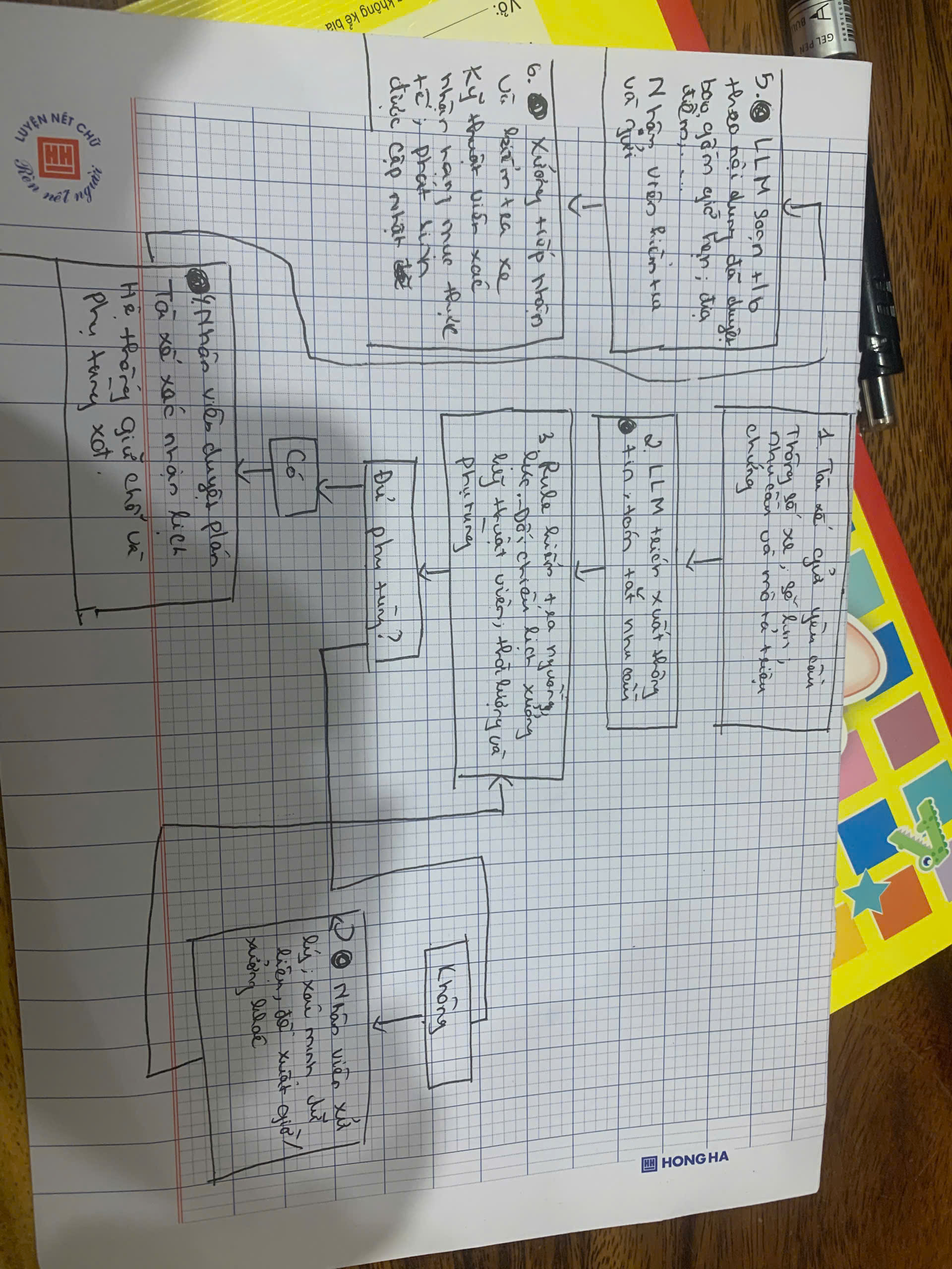
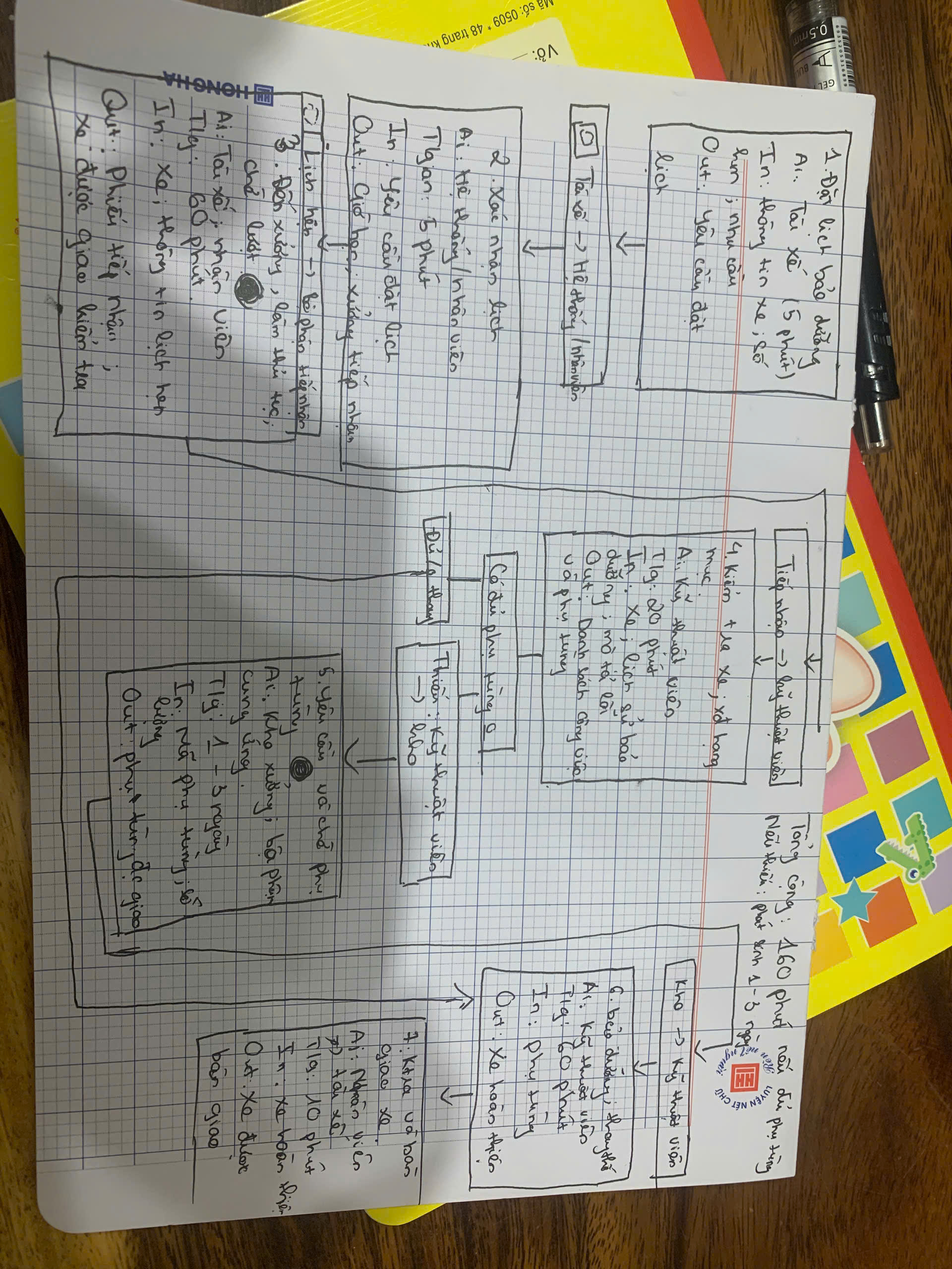
Update cau truc file

diff --git a/01-problem-scan.md b/01-problem-scan.md
@@ -1,0 +1,135 @@
+# Lab 02 — Quét bài toán và đánh giá nhanh
+
+## Phase 1 — SCAN: Tìm kiếm bài toán
+| # | Subsidiary (VinFast/Xanh SM...) | Lens | Mô tả ngắn bài toán |
+|---|----------------------------------|------|---------------------|
+| 1 | **Vinmec** | AI-upgrade | Khách hàng phải hỏi nhiều lượt để biết thủ tục khám, giấy tờ cần mang và cách đặt lịch. Trợ lý AI có thể trả lời theo hướng dẫn được bệnh viện phê duyệt, hỏi rõ nhu cầu và chuyển nhân viên khi cần.|
+| 2 | **Vinhomes** | Tốn thời gian | Ban quản lý đọc phản ánh của cư dân, tra lịch sử xử lý và soạn phản hồi cho từng trường hợp. AI có thể tóm tắt hồ sơ, phân loại yêu cầu và dự thảo phản hồi theo thông tin thực tế. |
+| 3 | **Xanh SM** |Pain từ người khác| Bảo dưỡng xe | Tài xế đã đặt lịch bảo dưỡng nhưng khi đến xưởng vẫn phải xếp hàng hoặc chờ phụ tùng thay thế, khiến xe ngừng hoạt động lâu hơn dự kiến và giảm thời gian chạy xe kiếm thu nhập. |  
+| 4 | **Vinhome** |Lặp lại (Repetitive)| Nhân viên ban quản lý phải đọc từng yêu cầu của cư dân, phân loại như điện nước, vệ sinh, an ninh rồi chuyển đến bộ phận phụ trách. Thao tác này lặp lại hằng ngày trên nhiều yêu cầu, AI có thể tự động phân loại và đề xuất bộ phận tiếp nhận. |
+| 5 |**VinFast**| Pain từ người khác | Khách hàng không biết hoặc hiểu nhầm ngày hết ưu đãi, bất ngờ khi phát sinh tiền sạc và phải liên hệ nhiều lần để được giải thích. |
+## Phase 2 — QUICK-ASSESS: Ba thẻ bài toán
+
+Chọn **top 3 bài toán** từ danh sách trên và hoàn thiện **3 Quick Problem Cards** dưới đây (10 phút/card).
+
+```
+┌─────────────────────────────────────────────────────────────┐
+│ QUICK PROBLEM CARD #1                                       │
+│                                                             │
+│Bài toán (1 câu):  Khách hàng phải hỏi nhiều lượt để biết thủ|
+| tục khám, giấy tờ cần mang và cách đặt lịch, khiến việc     |
+| chuẩn bị đi khám mất thời gian và nhân viên phải giải đáp   |
+| lại những câu hỏi tương tự.                                 |
+│ Công ty thành viên: [x] VinMec                              │
+│                                                             │
+│                                                             │
+│ Ai đang đau (Actor)? Khách hàng (phải tìm hiểu, chuẩn bị    |
+| giấy tờ), Nhân viên (hỏi lại thông tin, giải thích)         │
+│                                                             │
+│ Workflow thủ công hiện tại (3-5 bước):                      │
+│   1. Khách hàng hỏi về thủ tục và đặt lịch khám.            |
+|   ->2. Nhân viên hỏi thêm cơ sở muốn khám, dịch vụ và       |
+|        thông tin liên quan.                                 |
+|   ->3. Nhân viên tra cứu hướng dẫn, giấy tờ và quy trình    |
+|        phù hợp.                                            |
+|   ->4. Nhân viên trả lời, khách hàng hỏi bổ sung thông      |
+|       tin chưa đầy đủ.                                      |
+|   ->5. Nhân viên hướng dẫn đặt lịch hoặc chuyển bộ          |
+|        phận tiếp nhận.                                      │
+│                                                             │
+│ Bước nào tốn thời gian/lỗi nhất? Bước 2-4(⏱ 30 phút/lượt)      │
+│ AI có thể nhảy vào hỗ trợ ở bước nào? Bước 2-4(Đọc nội dung 
+| khách hàng gửi, truy xuất hướng dẫn được bệnh viện phê duyệt|
+| và tạo danh sách giấy tờ, bước chuẩn bị phù hợp.)     |
+│                                                             │
+│ Đo thành công bằng gì (Metric có số)? Giảm thời gian phân loại|
+| và tiếp nhận từ 30 phút xuống 5 phút                          │
+│   VD: "Giảm thời gian soạn phản hồi từ 10 min ──> under 2 min"│
+│                                                             │
+│ Quick Architecture: [x] LLM(Tự động soạn hướng dẫn và danh | 
+|                 sách chuẩn bị)                                │
+└─────────────────────────────────────────────────────────────┘
+```
+
+```
+┌─────────────────────────────────────────────────────────────┐
+│ QUICK PROBLEM CARD #3                                       │
+│                                                             │
+│Bài toán (1 câu):  Tài xế đã đặt lịch bảo dưỡng nhưng khi    |
+| đến xưởng vẫn phải xếp hàng hoặc chờ phụ tùng thay thế,     |
+| khiến xe ngừng hoạt động lâu hơn dự kiến và giảm thời       |
+| gian chạy xe kiếm thu nhập.                                 |
+│ Công ty thành viên: [x] Xanh SM                             │
+│                                                             │
+│                                                             │
+│ Ai đang đau (Actor)? Tài xế (chờ đợi), Nhân viên (giải thích|
+|                         đổi lịch, xử lý tồn đọng)           │
+│                                                             │
+│ Workflow thủ công hiện tại (3-5 bước):                      │
+│   1. Tài xế đặt lịch bảo dưỡng trên hệ thống                |
+|   ─> 2. Hệ thống xác nhận lịch bảo dưỡng                    |
+|   ─> 3. Tài xế mang xe đến xưởng bảo dưỡng để kiểm tra, xe| 
+|         xếp hàng chờ đến lượt                             |   
+|   ─> 4. phát hiện cần thay phụ tùng nhưng xưởng không có    |
+|         sẵn   
+|   ─> 5. Xưởng hoàn tất dịch vụ, bàn giao xe               │
+│                                                             │
+│ Bước nào tốn thời gian/lỗi nhất? Bước 3 - 4(⏱ 60 phút - vài| 
+|                                             ngày/lượt)      │
+│ AI có thể nhảy vào hỗ trợ ở bước nào? Bước 1–2(Dự báo thời |
+|lượng bảo dưỡng và phụ tùng có khả năng cần dùng từ số km, |
+|lịch sử bảo dưỡng và triệu chứng tài xế cung cấp. Kết hợp dữ |
+|liệu năng lực xưởng và tồn kho để đề xuất giờ hẹn hoặc xưởng |
+|phù hợp), Bước 3–4(Cập nhật thời gian hoàn thành dự kiến khi |
+|phát sinh chậm trễ.)                                         |
+│                                                             │
+│ Đo thành công bằng gì (Metric có số)? Giảm thời gian chờ tiếp|
+|nhận từ 60 xuống 30 phút                                      │
+│   VD: "Giảm thời gian soạn phản hồi từ 10 min ──> under 2 min"│
+│                                                             │
+│ Quick Architecture: [ ] No AI  [x]Rule                      │
+└─────────────────────────────────────────────────────────────┘
+```
+```
+┌─────────────────────────────────────────────────────────────┐
+│ QUICK PROBLEM CARD #4                                       │
+│                                                             │
+│Bài toán (1 câu):  Nhân viên ban quản lý phải đọc từng yêu   |
+|cầu của cư dân, phân loại như điện nước, vệ sinh, an ninh rồi| 
+|chuyển đến bộ phận phụ trách.                                 |
+│ Công ty thành viên: [x] Vinhomes                            │
+│                                                             │
+│                                                             │
+│ Ai đang đau (Actor)? Cư dân (chờ đợi), Nhân viên (lọc, phân |
+|                         loại, chuyển yêu cầu)               │
+│                                                             │
+│ Workflow thủ công hiện tại (3-5 bước):                      │
+│   1. Cư dân gửi yêu cầu đến ban quản lý                     |
+|   ─> 2. Nhân viên đọc và kiểm tra thông tin, vị trí xảy ra|
+|         vấn đề                                              |
+|   ─> 3. Nhân viên phân loại yêu cầu và chuyển cho bộ phận |
+|         phụ trách                                           |   
+|   ─> 4. Bộ phận phụ trách tiếp nhận và kiểm tra             |
+│                                                             │
+│ Bước nào tốn thời gian/lỗi nhất? Bước 2 - 4(⏱ 15 phút/      |
+|                                                   lượt)      │
+│ AI có thể nhảy vào hỗ trợ ở bước nào? Bước 2-4(Đọc, phân loại|
+| và chuyển yêu cầu đến bộ phận phụ trách vấn đề)              |
+│                                                             │
+│ Đo thành công bằng gì (Metric có số)? Giảm thời gian chờ tiếp|
+|nhận từ 15 xuống 5 phút                                      │
+│   VD: "Giảm thời gian soạn phản hồi từ 10 min ──> under 2 min"│
+│                                                             │
+│ Quick Architecture: [x]Agent(Tự động phân loại |
+|và gửi yêu cầu cho bộ phận phụ trách )                      │
+└─────────────────────────────────────────────────────────────┘
+```
+
+## Đề xuất lựa chọn cá nhân
+Chọn bài toán **"Card #3 - Giảm thời gian chờ bảo dưỡng xe đã đặt lịch"** để thực hiện Deep-Dive.
+
+## Lý do lựa chọn và loại bỏ các thẻ khác:
+* **Card #1 — Vinmec**: Nhóm cần có tài liệu hướng dẫn được bệnh viện phê duyệt và cập nhật để bảo đảm câu trả lời chính xác. Các câu hỏi thủ tục thông thường cũng có thể được xử lý bằng biểu mẫu và checklist.
+
+* **Card #4 — Vinhomes**: Bài toán dễ thử nghiệm nhưng việc cho cư dân chọn nhóm yêu cầu và định tuyến bằng quy tắc có thể đã giải quyết phần lớn thao tác thủ công.
+---

diff --git a/02-deep-dive-report.md b/02-deep-dive-report.md
@@ -1,0 +1,16 @@
+# Lab 02 — Báo cáo phân tích sâu
+## Phase 3 — DEEP-DIVE
+### 3.1 Current-State Workflow Mapping
+![Quy trình hiện tại](04-workflow-diagram.jpg)
+### 3.2. Problem Statement (6-field) & Metrics
+| Field | Nội dung chi tiết |
+|---|---|
+| **1. Actor / Operator** | Nhân viên, Kỹ thuật viên và Tài xế |
+| **2. Current Workflow** |Tài xế đặt lịch qua hệ thống,nhân viên xác nhận. Tài xế đến xưởng, làm thủ tục và chờ lượt. Kỹ thuật viên kiểm tra xe yêu cầu phụ tùng nếu cần.Kỹ thuật viên bảo dưỡng, kiểm tra và nhân viên bàn giao bàn giao.|
+| **3. Bottleneck** | Chờ tiếp nhận: Lịch hẹn chưa khớp với thời lượng công việc và năng lực thực tế của xưởng, Chờ phụ tùng: Phụ tùng cần dùng chưa được kiểm tra hoặc chuẩn bị trước, một số nhu cầu chỉ phát hiện sau khi kiểm tra xe. |
+| **4. Business Impact** | Thời gian xe nằm xưởng kéo dài, tài xế không thể chạy xe, nhân viên phải giải thích, đổi lịch và xử lý tồn đọng.|
+| **5. Success Metric** |giảm thời gian chờ tiếp nhận trung bình của xe đến đúng hẹn từ 60 xuống 30 phút, tính từ lúc check-in đến lúc kỹ thuật viên bắt đầu kiểm tra. |
+| **6. Operational Boundary** | **Được phép**: Dự báo thời lượng, gợi ý phụ tùng có khả năng cần dùng, kiểm tra dữ liệu tồn kho và đề xuất lịch hoặc xưởng phù hợp. **Không được phép**: Tự kết luận hư hỏng, quyết định thay phụ tùng, đặt mua phụ tùng hoặc tự hủy/đổi lịch đã xác nhận. **Cần duyệt**: Nhân viên duyệt phương án lịch; tài xế đồng ý khi đổi lịch/xưởng, kỹ thuật viên xác nhận hạng mục và phụ tùng sau kiểm tra. |
+
+### 3.3. Future-State Flow & AI Fit 
+![Quy trình tương lai](04-workflow-diagram_3.3.jpg)
